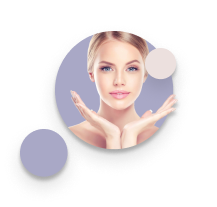
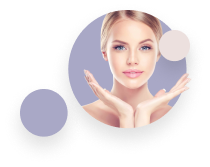
main bg

diff --git a/laser/src/styles/sections/_main-laser-service.sass b/laser/src/styles/sections/_main-laser-service.sass
@@ -1,30 +1,33 @@
 section.section.main-laser-service
   position: relative
   background:
-    image:  url("../assets/img/main-service/girl.png"), url("../assets/img/main-service/bg-nogirl.jpg")
-    size: 732px auto, cover
-    position: calc(100% + -79px) bottom, bottom
+    image: url("../assets/img/main-service/main-bg.jpg")
+    //size: 732px auto, cover
+    //position: calc(100% + -79px) bottom, bottom
+    size: cover
     repeat: no-repeat
   padding-top: 61px
   padding-bottom: 109px
   min-height: 651px
   //@media(min-width: 1920px)
   //  background:
-  //    //image:  url("../assets/img/main-service/girl.png"), url("../assets/img/main-service/bg-nogirl-xxl.jpg")
+  //    image:  url("../assets/img/main-service/main-bg-hd.jpg")
   //    position: calc(100% + -282px) bottom, bottom
   //    //size: 732px auto, cover
   @include media-breakpoint-down(lg)
     padding-top: 41px
-    background:
-     image:  url("../assets/img/main-service/girl.png"), url("../assets/img/main-service/main-bg-tablet.jpg")
-     position: calc(100% + 402px) bottom, bottom
-
-
-  @media (min-width: 992px) and (max-width: 1200px)
-    background:
-      position-x: -411px
+    //background:
+    //  image:  url("../assets/img/main-service/girl.png"), url("../assets/img/main-service/main-bg-tablet.jpg")
+    //  position: calc(100% + 402px) bottom, bottom
+    @media (min-width: 992px) and (max-width: 1200px)
+      background:
+        position-x: -411px
+  @include media-breakpoint-down(sm)
+    background-image: url("../assets/img/main-service/bg-mobile.jpg")
   @include media-breakpoint-down(sm)
     padding-top: 17px
+    background-size: 783px
+    background-position-x: -140px
   img.bg-elem
     position: absolute
     top: 0
@@ -32,6 +35,8 @@ section.section.main-laser-service
   .container
     .c-content
       transform: translate(-45px, -19px)
+      @include media-breakpoint-down(sm)
+        transform: translate(-6px, -19px)
     .h1-main-title
       @include font (CormorantGaramond, 400, 80, 60)
       color: $text-color-lightgrey
@@ -43,13 +48,14 @@ section.section.main-laser-service
       @include media-breakpoint-down(sm)
         font-size: 35px
         line-height: 35px
-        margin-bottom: 18px
+        margin-bottom: 42px
 
 
     .info-list
       li.list-item
         @include font (Circe, 400, 20, 31)
         color: $text-color-lightgrey
+        min-width: 150px
         &:before
           width: 7.71px
           height: 7.71px

diff --git a/laser/src/styles/sections/_choose-service-icon.sass b/laser/src/styles/sections/_choose-service-icon.sass
@@ -21,12 +21,14 @@ section.section.choose-service-icon
         align-items: center
         justify-content: space-between
         cursor: pointer
+        width: 230px
         &:hover .choose-title
           color: #F6AE9F !important
         .img-01
-          transform: translate(-6px, 7px)
+          transform: translate(-22px, 27px)
+          width: 221px
         .img-02
-          transform: translate(0px, 0px)
+          transform: translate(8px, 2px)
         .img-03
           transform: translate(0px, -4px)
         .img-04
